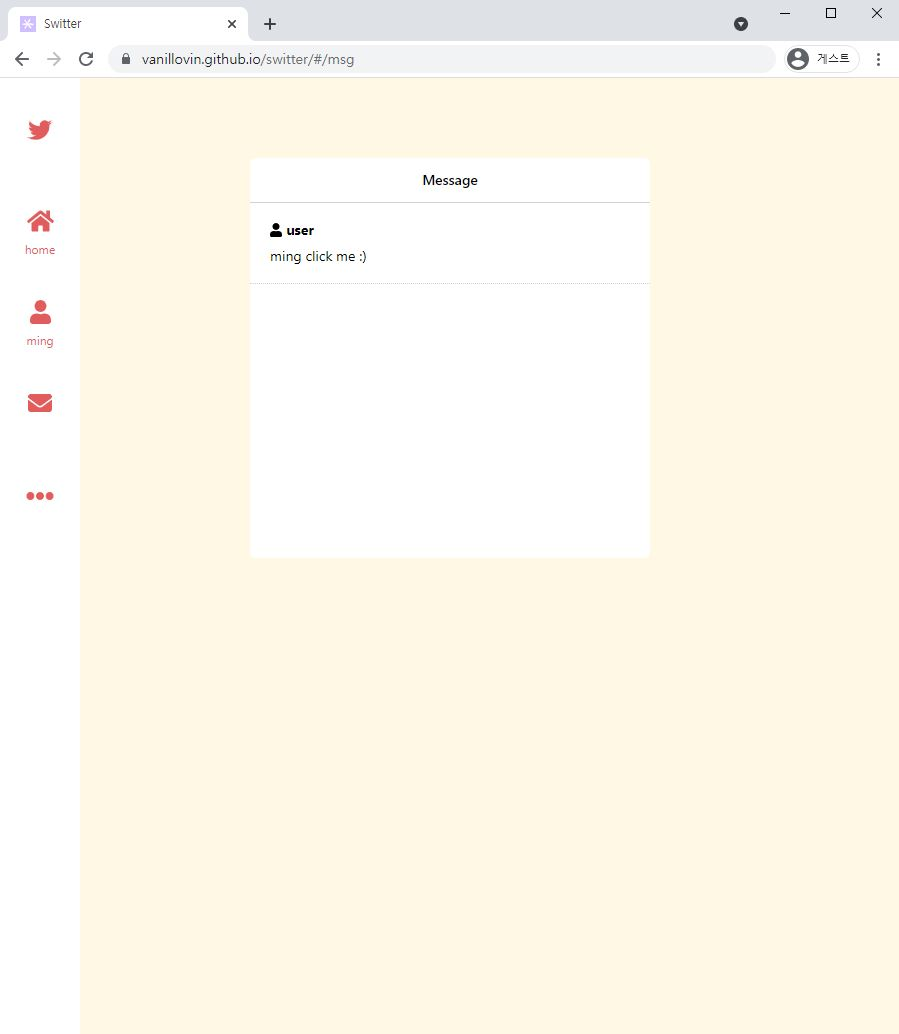
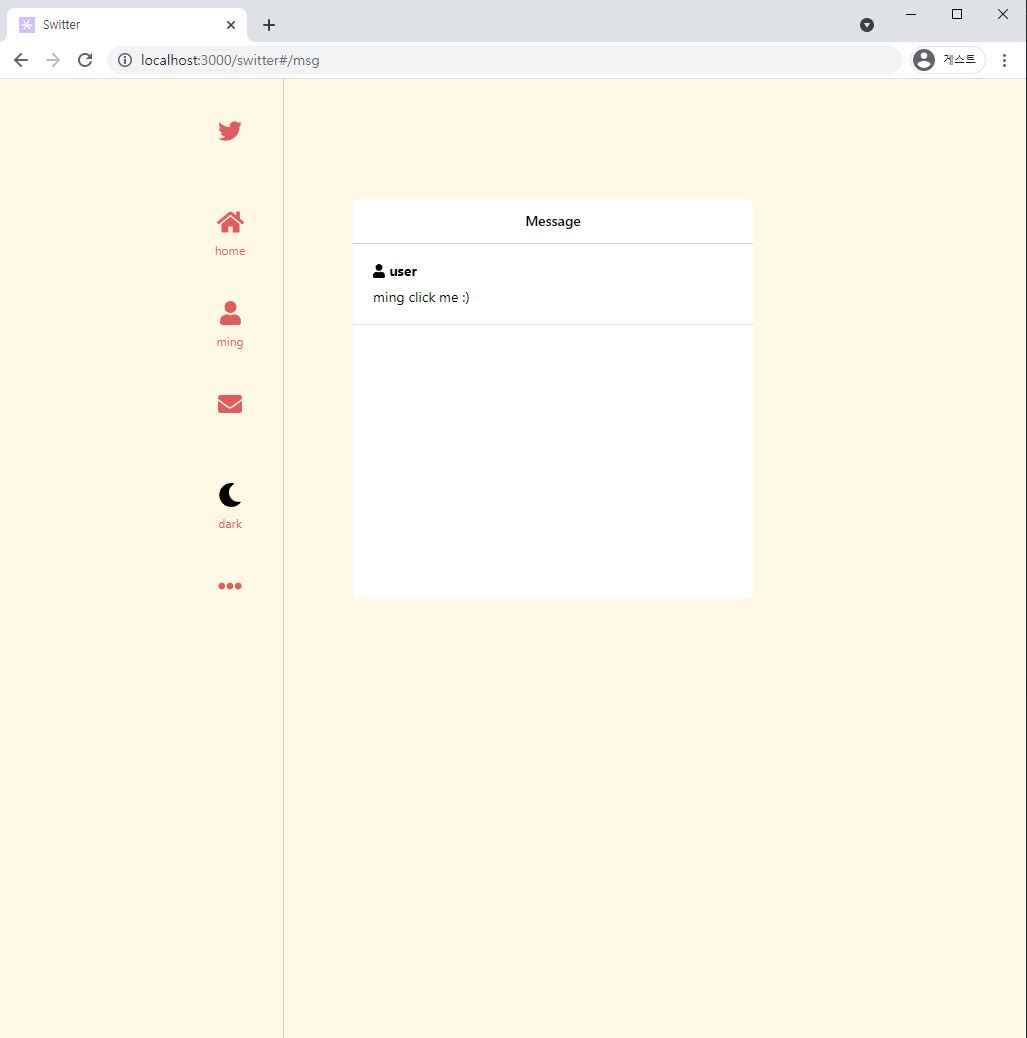
0930 fin

diff --git a/src/styles.css b/src/styles.css
@@ -30,8 +30,8 @@ body {
   display: flex;
   justify-content: center;
   background-color: #fff8e5;
-  border-left: 1px solid rgba(255, 180, 66, 0.2);
   border-left: 1px solid white;
+  border-left: 1px solid rgba(224, 93, 93, 0.4);
 }
 .right.dark {
   background-color: #193446;
@@ -56,7 +56,7 @@ form {
 .nav {
   position: fixed;
   top: 0;
-  padding: 40px 20px 0 0;
+  padding: 40px 25px 0 0;
 }
 /* nav dark */
 .nav.dark .navlink,

diff --git a/README.md b/README.md
@@ -12,21 +12,21 @@
 # 기능 소개
 
 1. 이메일 비번 or 구글 깃허브 로그인 회원가입
-   + <img src="public/img/1.JPG" width="400">
+   - <img src="public/img/1.JPG" width="400">
 2. 게시글
-   + <img src="public/img/2.JPG" width="400">
+   1. 사용자 displayname과 날짜 표시
+   2. 좋아요 기능 (9.30 추가)
+   - <img src="public/img/2.JPG" width="400">
 3. 프로필
-   + <img src="public/img/3.JPG" width="400">
+   - <img src="public/img/3.JPG" width="400">
 4. 메신저
-   + <img src="public/img/4.JPG" width="400">
+   - <img src="public/img/4.JPG" width="400">
 5. 다크모드
-   + 9.29 추가!
-   + <img src="public/img/5.JPG" width="400">
-6. 좋아요
-   + 9.30 추가!
-   + <img src="public/img/6.JPG" width="400">
+   - 9.29 추가!
+   - <img src="public/img/5.JPG" width="400">
 
 # TODO
+
 1. 댓글달기
 2. 공유하기
 3. 프로필이미지
